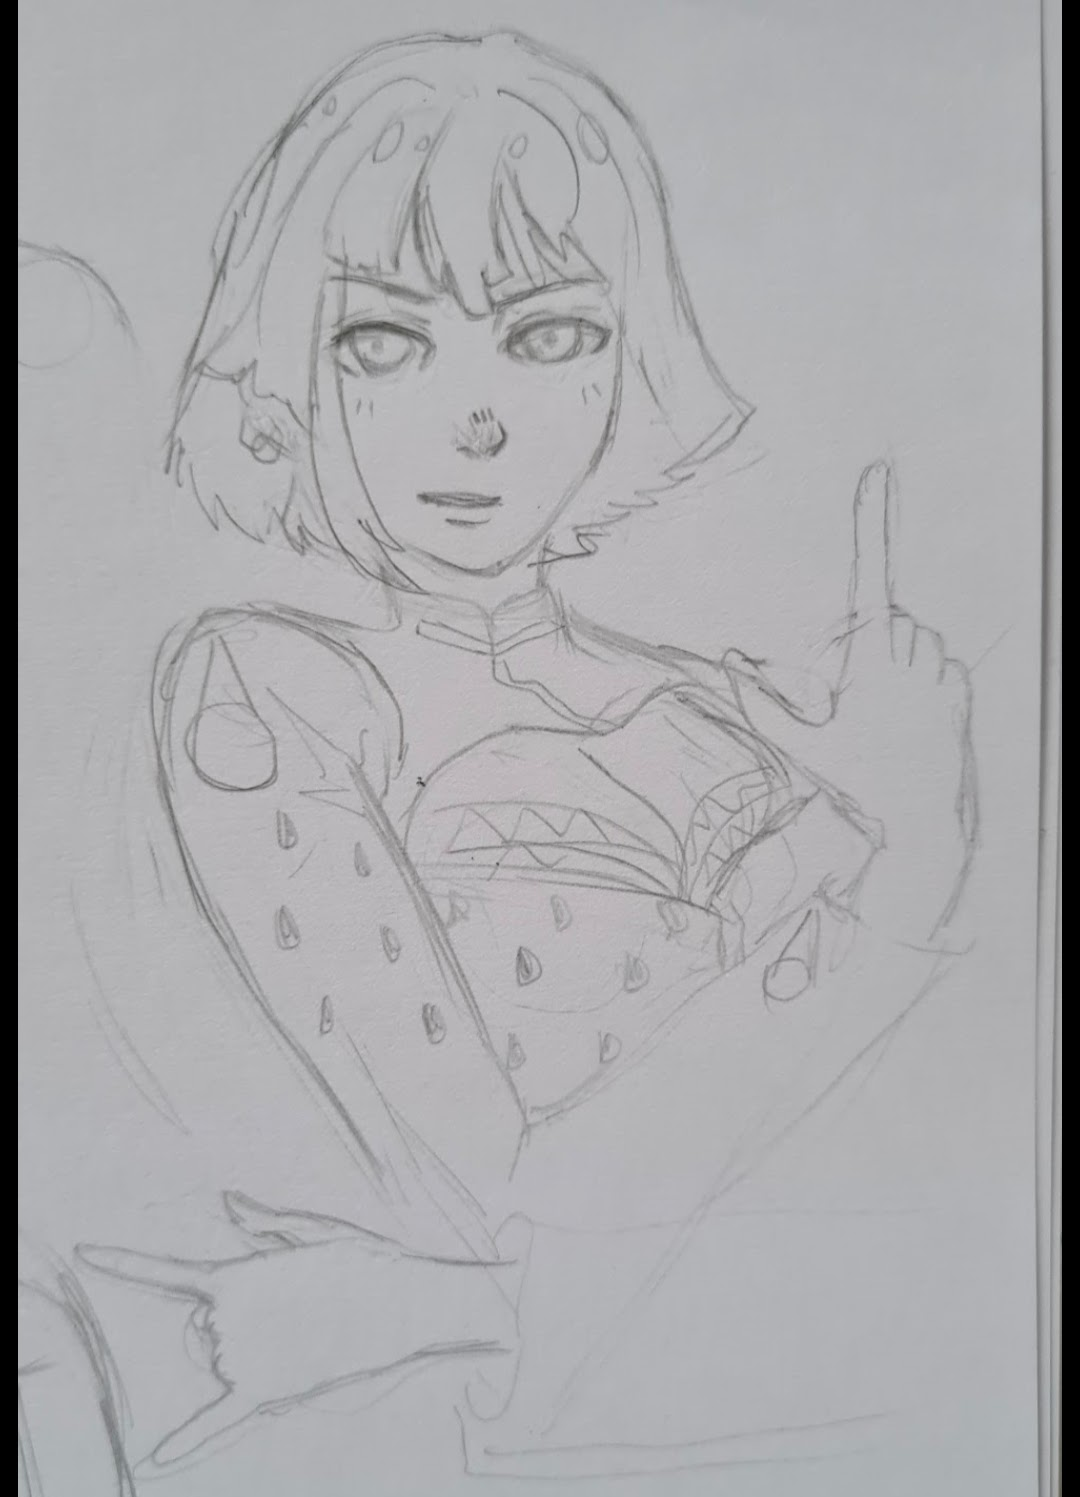
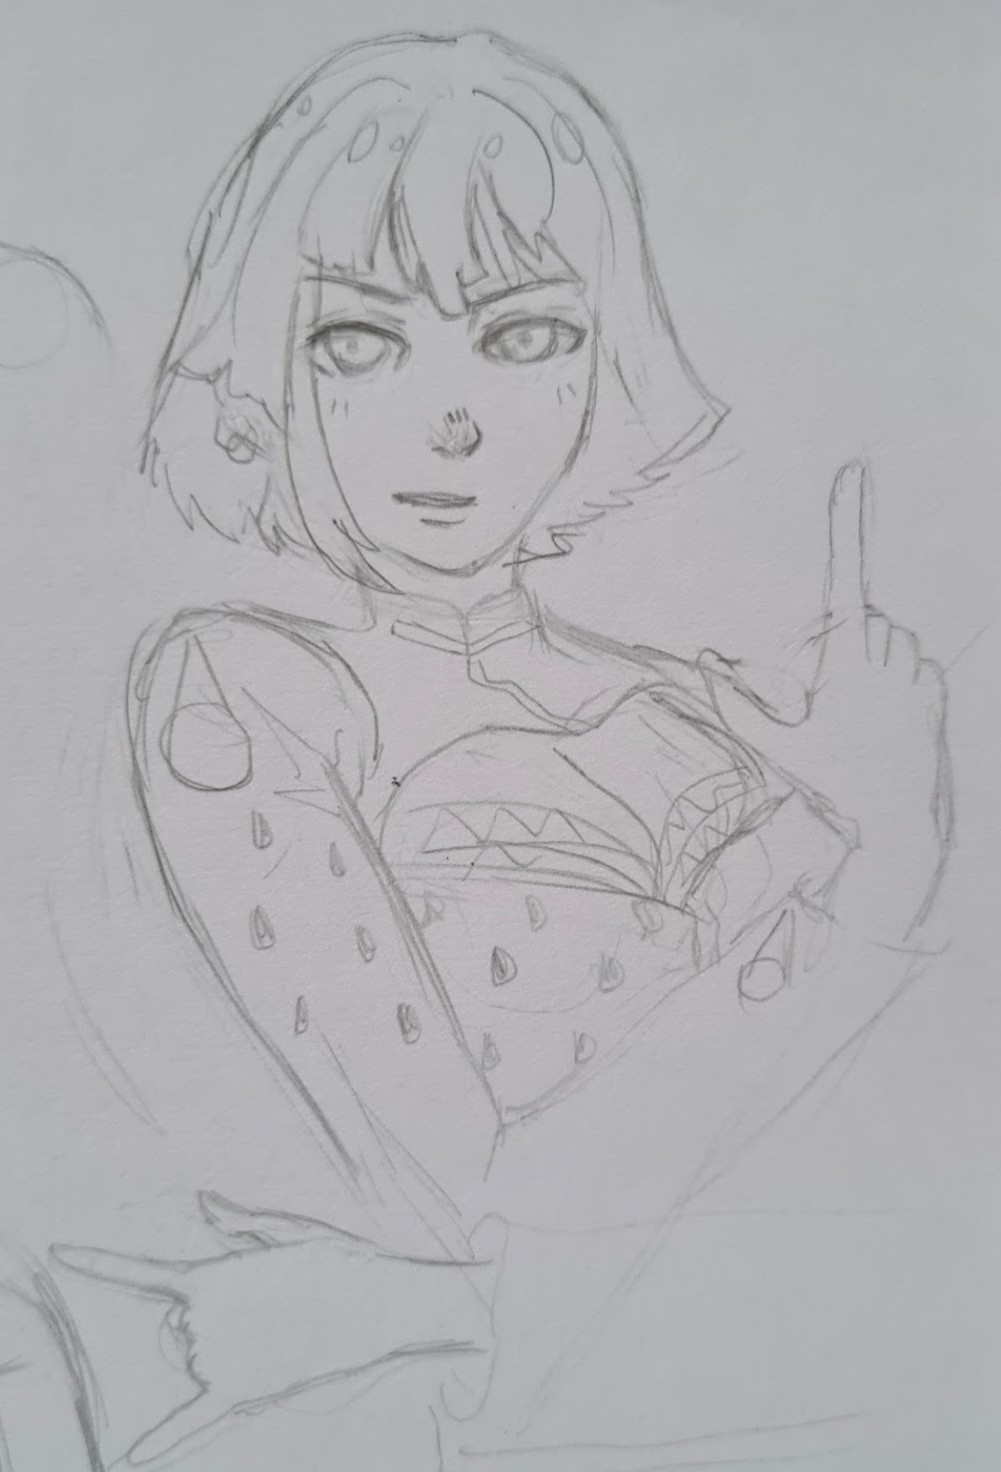
aaaaaaaaa

diff --git a/index.html b/index.html
@@ -437,6 +437,41 @@ div#goog-gt- {
     content: url('imgs/feed/mcrshow2.jpg');
 }
 
+
+
+
+/* CSS */
+.avatar-ring {
+  padding: 4px;
+  border-radius: 50%;
+  border: 4px solid transparent;
+  display: inline-flex;
+  flex-direction: column;
+  align-items: center;
+}
+.avatar-ring.live {
+  border-color: #E24B4A;
+  animation: pulse-border 1.5s ease-in-out infinite;
+}
+@keyframes pulse-border {
+  0%, 100% { box-shadow: 0 0 0 0px rgba(226,75,74,0.5); }
+  50% { box-shadow: 0 0 0 6px rgba(226,75,74,0.15); }
+}
+.avatar-ring img {
+  width: 100px; height: 100px;
+  border-radius: 50%;
+  object-fit: cover;
+}
+.live-badge {
+  margin-top: 8px;
+  background: #E24B4A; color: #fff;
+  font-size: 12px; font-weight: 500;
+  padding: 3px 10px; border-radius: 4px;
+  display: none;
+}
+
+
+
     </style>
 </head>
  
@@ -984,9 +1019,47 @@ div#goog-gt- {
 
 
 <hr>
+<a href="https://twitch.tv/minkurosu" target="_blank">
+  <div class="avatar-ring" id="avatarRing" style="height: 230px;">
+    <img src="imgs/art portfolio/pixelicon.jpeg" style="width: 100%; height: 100%; object-fit: cover;" />
+  </div>
+</a>
+</a>
+<span class="live-badge" id="liveBadge">live</span>
+<script>
+async function checkLive() {
+  const tokenRes = await fetch('https://id.twitch.tv/oauth2/token', {
+    method: 'POST',
+    body: new URLSearchParams({
+      client_id: 'd8c28gocdgh8zpasmhd01h9oi1p81e',
+      client_secret: 'dvxnvxrovv8fvnk75wqixleq3z3jng',
+      grant_type: 'client_credentials'
+    })
+  });
+  const tokenData = await tokenRes.json();
+  const token = tokenData.access_token;
+
+  const res = await fetch('https://api.twitch.tv/helix/streams?user_login=minkurosu', {
+    headers: {
+      'Client-ID': 'd8c28gocdgh8zpasmhd01h9oi1p81e',
+      'Authorization': `Bearer ${token}`
+    }
+  });
+  const data = await res.json();
+  const isLive = data.data && data.data.length > 0;
+
+  document.getElementById('avatarRing').classList.toggle('live', isLive);
+  document.getElementById('liveBadge').style.display = isLive ? 'inline-block' : 'none';
+}
+
+checkLive();
+setInterval(checkLive, 300000); // a cada 5 minutos
+</script>
 
 
+<hr>
 
+       
 <div  class="desaturate" id="butterchurn-container" style="position: relative; width: 100%; height: 480px; background: #000; border-radius: 12px; overflow: hidden; cursor: pointer;">
   <canvas id="viz-canvas"></canvas>
   <div id="fade-overlay" style="position: absolute; inset: 0; background: #000; opacity: 1; transition: opacity 1.5s ease; pointer-events: none;"></div>
@@ -1067,14 +1140,7 @@ div#goog-gt- {
 })();
 </script>
 
-
-<hr>
-
-<hr>
-<img style="height: 265px;"" src="imgs/art portfolio/pixelicon.jpeg">
-
-
-                     
+              
 <hr>
                             <div class="caixamaisclaraColumn">
                                 <H3>my button! feel free to link :3
@@ -1217,11 +1283,12 @@ button.png" class="desaturate"  alt="RFGuy website button"></a>
                            
                          
                                 </div>
-                                   <br>  
+                                <hr>
 <div class="caixamaisclaraColumn" style="border: 4px solid #330101 !important; outline: none !important;">
     <div class="scrollSmaller">
         <h3>UPDATES</h3>
         <hr>
+        <h4>17/05/2026 - added lots of old drawings, some never posted before!!</h4>
         <h4>25/02/2026 - added more decoration, added my stuff page, other tweaks</h4>
         <h4>28/12/2025 - more minecraft screenshots, added a new article to cool links, fixed page loader bug</h4>
         <h4>22/11/2025 - updated game section and fixed page loader bug</h4>
@@ -1242,7 +1309,11 @@ button.png" class="desaturate"  alt="RFGuy website button"></a>
         <h4>05/08/2025 - added games page!</h4>
     </div>
 </div>
-<br>
+
+<hr>
+<img src="imgs\webgraphics\pixels\hunter-s-moon-king-lulu-deer.gif">
+
+<hr>
 <div class="caixamaisclaraColumn" style="border: 4px solid #330101 !important; outline: none !important;">
     <div class="scrollSmaller">
         <h3>TO DO LIST</h3>
